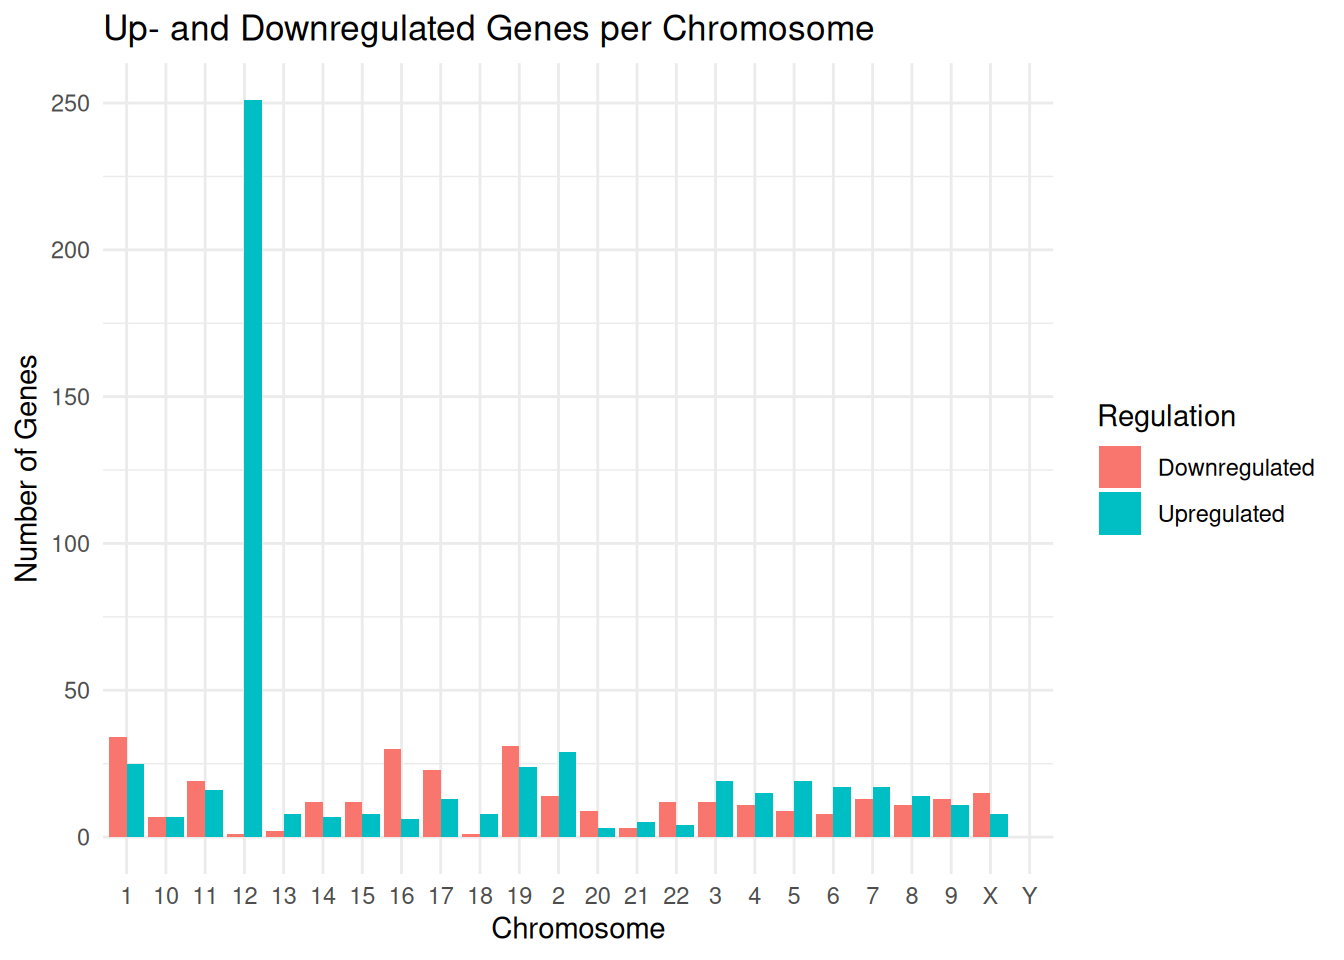
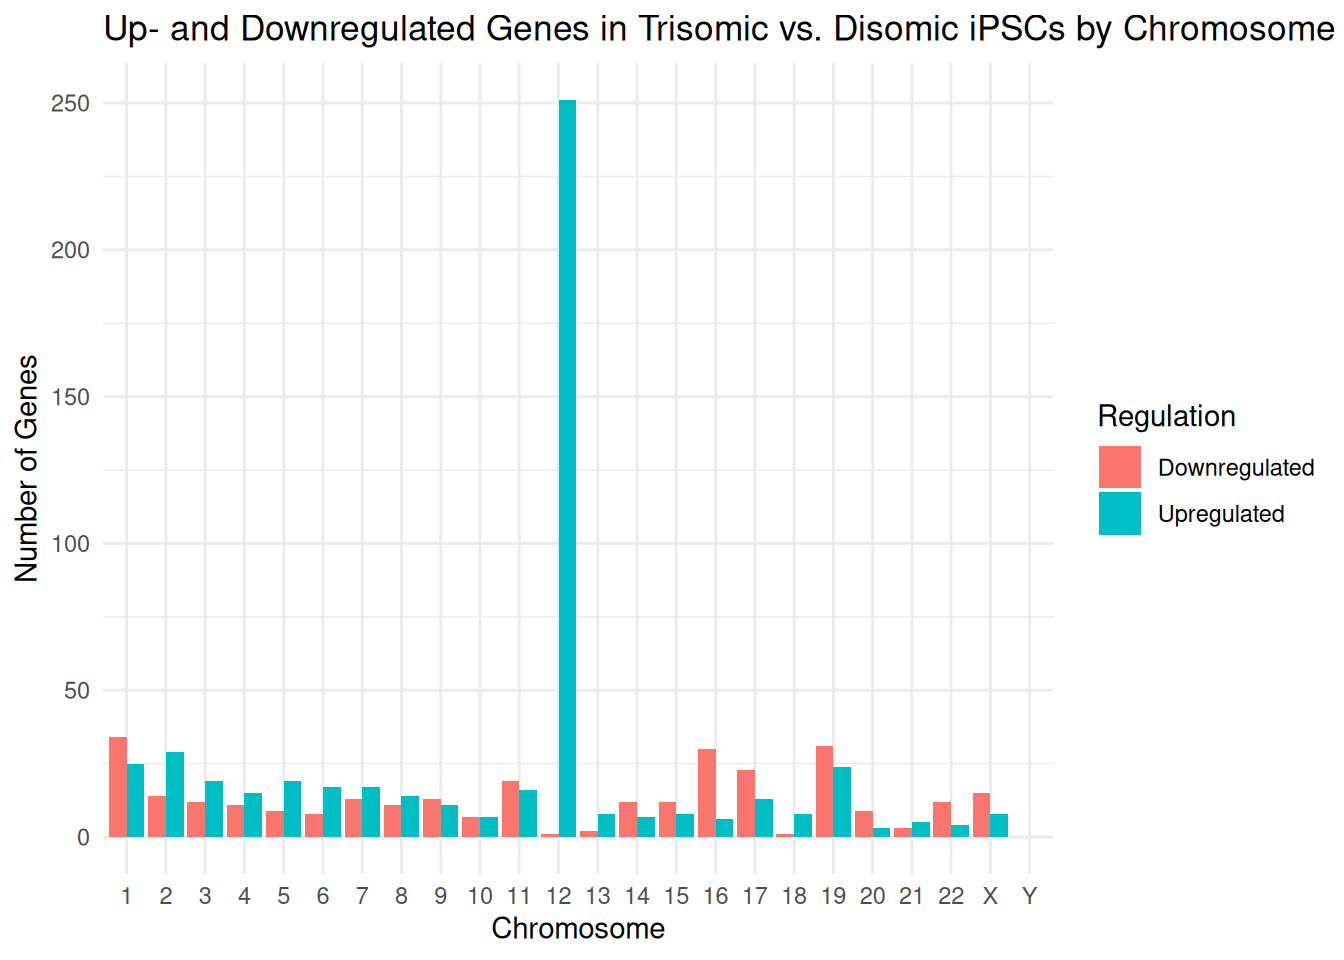
Built site for gh-pages

diff --git a/projects/project_title.html b/projects/project_title.html
@@ -225,7 +225,7 @@ pre > code.sourceCode > span > a:first-child::before { text-decoration: underlin
 </section>
 <section id="load-and-preview-the-rna-seq-dataset" class="level2">
 <h2 class="anchored" data-anchor-id="load-and-preview-the-rna-seq-dataset">Load and Preview the RNA-seq Dataset</h2>
-<p>The dataset <code>BulkRNAseq_with_Chr.csv</code> contains normalized expression values, fold changes, statistical test results, and chromosome annotations for over 12,000 genes. Below, we load the dataset and preview the first few rows to verify that it has been imported correctly.</p>
+<p>We load the CSV file using <code>read_csv()</code> and use <code>head()</code> and <code>glimpse()</code> to confirm successful import and examine the structure. The dataset <code>BulkRNAseq_with_Chr.csv</code> contains normalized expression values, fold changes, statistical test results, and chromosome annotations for over 12,000 genes. Below, we load the dataset and preview the first few rows to verify that it has been imported correctly.</p>
 <div class="cell">
 <div class="sourceCode cell-code" id="cb3"><pre class="sourceCode r code-with-copy"><code class="sourceCode r"><span id="cb3-1"><a href="#cb3-1" aria-hidden="true" tabindex="-1"></a><span class="co"># Read CSV and preview first few rows</span></span>
 <span id="cb3-2"><a href="#cb3-2" aria-hidden="true" tabindex="-1"></a><span class="fu">library</span>(readr)</span>
@@ -256,49 +256,71 @@ dbl (15): baseMean, baseMeanA, baseMeanB, foldChange, log2FoldChange, lfcSE,...
 #   P3_2 &lt;dbl&gt;, P3_3 &lt;dbl&gt;, P33_1 &lt;dbl&gt;, P33_2 &lt;dbl&gt;, P33_3 &lt;dbl&gt;, band &lt;chr&gt;,
 #   chromosome_name &lt;chr&gt;</code></pre>
 </div>
+<div class="sourceCode cell-code" id="cb7"><pre class="sourceCode r code-with-copy"><code class="sourceCode r"><span id="cb7-1"><a href="#cb7-1" aria-hidden="true" tabindex="-1"></a><span class="fu">glimpse</span>(rna)</span></code><button title="Copy to Clipboard" class="code-copy-button"><i class="bi"></i></button></pre></div>
+<div class="cell-output cell-output-stdout">
+<pre><code>Rows: 12,916
+Columns: 19
+$ name            &lt;chr&gt; "ENSG00000228624", "ENSG00000234787", "ENSG00000254339…
+$ gene_symbol     &lt;chr&gt; "HDAC2-AS2", "LINC00458", "ENSG00000254339", "CEBPZOS"…
+$ baseMean        &lt;dbl&gt; 1400.4867, 1930.8693, 3206.3738, 495.8898, 454.7371, 6…
+$ baseMeanA       &lt;dbl&gt; 371.2333, 530.4333, 651.3333, 890.6333, 149.7667, 254.…
+$ baseMeanB       &lt;dbl&gt; 2429.7000, 3331.2667, 5761.4333, 101.1667, 759.7000, 9…
+$ foldChange      &lt;dbl&gt; 6.5489, 6.2818, 8.8441, 0.1132, 5.0707, 3.8492, 4.2759…
+$ log2FoldChange  &lt;dbl&gt; 2.7112, 2.6512, 3.1447, -3.1432, 2.3422, 1.9446, 2.096…
+$ lfcSE           &lt;dbl&gt; 0.1069, 0.1077, 0.1474, 0.1580, 0.1405, 0.1220, 0.1464…
+$ stat            &lt;dbl&gt; 25.3538, 24.6142, 21.3295, -19.8895, 16.6748, 15.9350,…
+$ pvalue          &lt;dbl&gt; 8.15e-142, 8.89e-134, 6.05e-101, 5.02e-88, 2.00e-62, 3…
+$ pAdj            &lt;dbl&gt; 1.49e-137, 1.09e-129, 5.55e-97, 3.68e-84, 9.17e-59, 1.…
+$ P3_1            &lt;dbl&gt; 399.3, 587.6, 505.4, 843.3, 146.7, 259.6, 160.5, 146.7…
+$ P3_2            &lt;dbl&gt; 360.2, 495.3, 743.5, 898.4, 147.6, 266.0, 144.5, 112.0…
+$ P3_3            &lt;dbl&gt; 354.2, 508.4, 705.1, 930.2, 155.0, 239.2, 140.9, 107.5…
+$ P33_1           &lt;dbl&gt; 2418.2, 3290.6, 5890.2, 114.0, 777.1, 932.5, 652.7, 61…
+$ P33_2           &lt;dbl&gt; 2513.5, 3414.9, 5489.2, 81.5, 813.2, 1032.8, 677.0, 60…
+$ P33_3           &lt;dbl&gt; 2357.4, 3288.3, 5904.9, 108.0, 688.8, 974.1, 574.0, 57…
+$ band            &lt;chr&gt; "q21", "q14.3", "q23.3", "p22.2", "q24.1", "p13.33", N…
+$ chromosome_name &lt;chr&gt; "6", "13", "8", "2", "16", "12", NA, "11", "12", "12",…</code></pre>
+</div>
 </div>
 </section>
 <section id="summarize-dataset" class="level2">
 <h2 class="anchored" data-anchor-id="summarize-dataset">Summarize Dataset</h2>
-<p>In this section, we explore summary statistics and characteristics of the RNA-seq dataset.</p>
-<section id="a.-how-many-genes-are-upregulated-or-downregulated-in-trisomic-ch-12-ipscs" class="level3">
-<h3 class="anchored" data-anchor-id="a.-how-many-genes-are-upregulated-or-downregulated-in-trisomic-ch-12-ipscs">A. How many genes are upregulated or downregulated in trisomic ch-12 iPSCs?</h3>
-<p>We define upregulated genes as those with a positive <code>log2FoldChange</code> and downregulated as those with a negative <code>log2FoldChange</code>, comparing trisomic (P33_1, P33_2, P33_3) versus disomic (P3_1, P3_2, P3_3) iPSCs.</p>
+<section id="how-many-genes-are-upregulated-or-downregulated-in-trisomic-ipscs" class="level3">
+<h3 class="anchored" data-anchor-id="how-many-genes-are-upregulated-or-downregulated-in-trisomic-ipscs">How many genes are upregulated or downregulated in trisomic iPSCs?</h3>
+<p>We define significantly upregulated genes as those with log₂ fold change ≥ log₂(1.5) and FDR-adjusted p-value &lt; 0.05. Downregulated genes meet the same p-value threshold and log₂ fold change ≤ -log₂(1.5),comparing trisomic (P33_1, P33_2, P33_3) versus disomic (P3_1, P3_2, P3_3) iPSCs.</p>
 <div class="cell">
-<div class="sourceCode cell-code" id="cb7"><pre class="sourceCode r code-with-copy"><code class="sourceCode r"><span id="cb7-1"><a href="#cb7-1" aria-hidden="true" tabindex="-1"></a><span class="co"># Count how many genes are up- or down-regulated</span></span>
-<span id="cb7-2"><a href="#cb7-2" aria-hidden="true" tabindex="-1"></a></span>
-<span id="cb7-3"><a href="#cb7-3" aria-hidden="true" tabindex="-1"></a>log2fc_cutoff <span class="ot">&lt;-</span> <span class="fu">log2</span>(<span class="fl">1.5</span>)</span>
-<span id="cb7-4"><a href="#cb7-4" aria-hidden="true" tabindex="-1"></a>padj_cutoff <span class="ot">&lt;-</span> <span class="fl">0.05</span></span>
-<span id="cb7-5"><a href="#cb7-5" aria-hidden="true" tabindex="-1"></a></span>
-<span id="cb7-6"><a href="#cb7-6" aria-hidden="true" tabindex="-1"></a><span class="co"># Categorize genes</span></span>
-<span id="cb7-7"><a href="#cb7-7" aria-hidden="true" tabindex="-1"></a>rna <span class="ot">&lt;-</span> rna <span class="sc">%&gt;%</span></span>
-<span id="cb7-8"><a href="#cb7-8" aria-hidden="true" tabindex="-1"></a>  <span class="fu">mutate</span>(</span>
-<span id="cb7-9"><a href="#cb7-9" aria-hidden="true" tabindex="-1"></a>    <span class="at">Regulation =</span> <span class="fu">case_when</span>(</span>
-<span id="cb7-10"><a href="#cb7-10" aria-hidden="true" tabindex="-1"></a>      log2FoldChange <span class="sc">&gt;=</span> log2fc_cutoff <span class="sc">&amp;</span> pAdj <span class="sc">&lt;</span> padj_cutoff <span class="sc">~</span> <span class="st">"Upregulated"</span>,</span>
-<span id="cb7-11"><a href="#cb7-11" aria-hidden="true" tabindex="-1"></a>      log2FoldChange <span class="sc">&lt;=</span> <span class="sc">-</span>log2fc_cutoff <span class="sc">&amp;</span> pAdj <span class="sc">&lt;</span> padj_cutoff <span class="sc">~</span> <span class="st">"Downregulated"</span>,</span>
-<span id="cb7-12"><a href="#cb7-12" aria-hidden="true" tabindex="-1"></a>      <span class="cn">TRUE</span> <span class="sc">~</span> <span class="st">"Not Significant"</span></span>
-<span id="cb7-13"><a href="#cb7-13" aria-hidden="true" tabindex="-1"></a>    )</span>
-<span id="cb7-14"><a href="#cb7-14" aria-hidden="true" tabindex="-1"></a>  )</span>
-<span id="cb7-15"><a href="#cb7-15" aria-hidden="true" tabindex="-1"></a></span>
-<span id="cb7-16"><a href="#cb7-16" aria-hidden="true" tabindex="-1"></a><span class="co"># Summarize and include all chromosomes (excluding NA)</span></span>
-<span id="cb7-17"><a href="#cb7-17" aria-hidden="true" tabindex="-1"></a>reg_summary <span class="ot">&lt;-</span> rna <span class="sc">%&gt;%</span></span>
-<span id="cb7-18"><a href="#cb7-18" aria-hidden="true" tabindex="-1"></a>  <span class="fu">filter</span>(Regulation <span class="sc">!=</span> <span class="st">"Not Significant"</span>, <span class="sc">!</span><span class="fu">is.na</span>(chromosome_name)) <span class="sc">%&gt;%</span></span>
-<span id="cb7-19"><a href="#cb7-19" aria-hidden="true" tabindex="-1"></a>  <span class="fu">count</span>(chromosome_name, Regulation) <span class="sc">%&gt;%</span></span>
-<span id="cb7-20"><a href="#cb7-20" aria-hidden="true" tabindex="-1"></a>  <span class="fu">complete</span>(</span>
-<span id="cb7-21"><a href="#cb7-21" aria-hidden="true" tabindex="-1"></a>    <span class="at">chromosome_name =</span> <span class="fu">factor</span>(<span class="fu">c</span>(<span class="fu">as.character</span>(<span class="dv">1</span><span class="sc">:</span><span class="dv">22</span>), <span class="st">"X"</span>, <span class="st">"Y"</span>), <span class="at">levels =</span> <span class="fu">c</span>(<span class="fu">as.character</span>(<span class="dv">1</span><span class="sc">:</span><span class="dv">22</span>), <span class="st">"X"</span>, <span class="st">"Y"</span>)),</span>
-<span id="cb7-22"><a href="#cb7-22" aria-hidden="true" tabindex="-1"></a>    Regulation,</span>
-<span id="cb7-23"><a href="#cb7-23" aria-hidden="true" tabindex="-1"></a>    <span class="at">fill =</span> <span class="fu">list</span>(<span class="at">n =</span> <span class="dv">0</span>)</span>
-<span id="cb7-24"><a href="#cb7-24" aria-hidden="true" tabindex="-1"></a>  )</span>
-<span id="cb7-25"><a href="#cb7-25" aria-hidden="true" tabindex="-1"></a></span>
-<span id="cb7-26"><a href="#cb7-26" aria-hidden="true" tabindex="-1"></a><span class="co"># Plot</span></span>
-<span id="cb7-27"><a href="#cb7-27" aria-hidden="true" tabindex="-1"></a><span class="fu">ggplot</span>(reg_summary, <span class="fu">aes</span>(<span class="at">x =</span> chromosome_name, <span class="at">y =</span> n, <span class="at">fill =</span> Regulation)) <span class="sc">+</span></span>
-<span id="cb7-28"><a href="#cb7-28" aria-hidden="true" tabindex="-1"></a>  <span class="fu">geom_bar</span>(<span class="at">stat =</span> <span class="st">"identity"</span>, <span class="at">position =</span> <span class="st">"dodge"</span>) <span class="sc">+</span></span>
-<span id="cb7-29"><a href="#cb7-29" aria-hidden="true" tabindex="-1"></a>  <span class="fu">labs</span>(</span>
-<span id="cb7-30"><a href="#cb7-30" aria-hidden="true" tabindex="-1"></a>    <span class="at">title =</span> <span class="st">"Up- and Downregulated Genes per Chromosome"</span>,</span>
-<span id="cb7-31"><a href="#cb7-31" aria-hidden="true" tabindex="-1"></a>    <span class="at">x =</span> <span class="st">"Chromosome"</span>,</span>
-<span id="cb7-32"><a href="#cb7-32" aria-hidden="true" tabindex="-1"></a>    <span class="at">y =</span> <span class="st">"Number of Genes"</span></span>
-<span id="cb7-33"><a href="#cb7-33" aria-hidden="true" tabindex="-1"></a>  ) <span class="sc">+</span></span>
-<span id="cb7-34"><a href="#cb7-34" aria-hidden="true" tabindex="-1"></a>  <span class="fu">theme_minimal</span>()</span></code><button title="Copy to Clipboard" class="code-copy-button"><i class="bi"></i></button></pre></div>
+<div class="sourceCode cell-code" id="cb9"><pre class="sourceCode r code-with-copy"><code class="sourceCode r"><span id="cb9-1"><a href="#cb9-1" aria-hidden="true" tabindex="-1"></a><span class="co"># Step 1: Define thresholds</span></span>
+<span id="cb9-2"><a href="#cb9-2" aria-hidden="true" tabindex="-1"></a>log2fc_cutoff <span class="ot">&lt;-</span> <span class="fu">log2</span>(<span class="fl">1.5</span>)</span>
+<span id="cb9-3"><a href="#cb9-3" aria-hidden="true" tabindex="-1"></a>padj_cutoff <span class="ot">&lt;-</span> <span class="fl">0.05</span></span>
+<span id="cb9-4"><a href="#cb9-4" aria-hidden="true" tabindex="-1"></a></span>
+<span id="cb9-5"><a href="#cb9-5" aria-hidden="true" tabindex="-1"></a><span class="co"># Step 2: Categorize genes</span></span>
+<span id="cb9-6"><a href="#cb9-6" aria-hidden="true" tabindex="-1"></a>rna <span class="ot">&lt;-</span> rna <span class="sc">%&gt;%</span></span>
+<span id="cb9-7"><a href="#cb9-7" aria-hidden="true" tabindex="-1"></a>  <span class="fu">mutate</span>(</span>
+<span id="cb9-8"><a href="#cb9-8" aria-hidden="true" tabindex="-1"></a>    <span class="at">Regulation =</span> <span class="fu">case_when</span>(</span>
+<span id="cb9-9"><a href="#cb9-9" aria-hidden="true" tabindex="-1"></a>      log2FoldChange <span class="sc">&gt;=</span> log2fc_cutoff <span class="sc">&amp;</span> pAdj <span class="sc">&lt;</span> padj_cutoff <span class="sc">~</span> <span class="st">"Upregulated"</span>,</span>
+<span id="cb9-10"><a href="#cb9-10" aria-hidden="true" tabindex="-1"></a>      log2FoldChange <span class="sc">&lt;=</span> <span class="sc">-</span>log2fc_cutoff <span class="sc">&amp;</span> pAdj <span class="sc">&lt;</span> padj_cutoff <span class="sc">~</span> <span class="st">"Downregulated"</span>,</span>
+<span id="cb9-11"><a href="#cb9-11" aria-hidden="true" tabindex="-1"></a>      <span class="cn">TRUE</span> <span class="sc">~</span> <span class="st">"Not Significant"</span></span>
+<span id="cb9-12"><a href="#cb9-12" aria-hidden="true" tabindex="-1"></a>    )</span>
+<span id="cb9-13"><a href="#cb9-13" aria-hidden="true" tabindex="-1"></a>  )</span>
+<span id="cb9-14"><a href="#cb9-14" aria-hidden="true" tabindex="-1"></a></span>
+<span id="cb9-15"><a href="#cb9-15" aria-hidden="true" tabindex="-1"></a><span class="co"># Step 3: Filter out NA chromosome names and define correct chromosome order</span></span>
+<span id="cb9-16"><a href="#cb9-16" aria-hidden="true" tabindex="-1"></a>valid_chromosomes <span class="ot">&lt;-</span> <span class="fu">c</span>(<span class="fu">as.character</span>(<span class="dv">1</span><span class="sc">:</span><span class="dv">22</span>), <span class="st">"X"</span>, <span class="st">"Y"</span>)</span>
+<span id="cb9-17"><a href="#cb9-17" aria-hidden="true" tabindex="-1"></a></span>
+<span id="cb9-18"><a href="#cb9-18" aria-hidden="true" tabindex="-1"></a><span class="co"># Step 4: Summarize data per chromosome and regulation category</span></span>
+<span id="cb9-19"><a href="#cb9-19" aria-hidden="true" tabindex="-1"></a>reg_summary <span class="ot">&lt;-</span> rna <span class="sc">%&gt;%</span></span>
+<span id="cb9-20"><a href="#cb9-20" aria-hidden="true" tabindex="-1"></a>  <span class="fu">filter</span>(Regulation <span class="sc">!=</span> <span class="st">"Not Significant"</span>, chromosome_name <span class="sc">%in%</span> valid_chromosomes) <span class="sc">%&gt;%</span></span>
+<span id="cb9-21"><a href="#cb9-21" aria-hidden="true" tabindex="-1"></a>  <span class="fu">mutate</span>(<span class="at">chromosome_name =</span> <span class="fu">factor</span>(chromosome_name, <span class="at">levels =</span> valid_chromosomes)) <span class="sc">%&gt;%</span></span>
+<span id="cb9-22"><a href="#cb9-22" aria-hidden="true" tabindex="-1"></a>  <span class="fu">count</span>(chromosome_name, Regulation) <span class="sc">%&gt;%</span></span>
+<span id="cb9-23"><a href="#cb9-23" aria-hidden="true" tabindex="-1"></a>  <span class="fu">complete</span>(chromosome_name, Regulation, <span class="at">fill =</span> <span class="fu">list</span>(<span class="at">n =</span> <span class="dv">0</span>))</span>
+<span id="cb9-24"><a href="#cb9-24" aria-hidden="true" tabindex="-1"></a></span>
+<span id="cb9-25"><a href="#cb9-25" aria-hidden="true" tabindex="-1"></a><span class="co"># Step 5: Plot</span></span>
+<span id="cb9-26"><a href="#cb9-26" aria-hidden="true" tabindex="-1"></a><span class="fu">ggplot</span>(reg_summary, <span class="fu">aes</span>(<span class="at">x =</span> chromosome_name, <span class="at">y =</span> n, <span class="at">fill =</span> Regulation)) <span class="sc">+</span></span>
+<span id="cb9-27"><a href="#cb9-27" aria-hidden="true" tabindex="-1"></a>  <span class="fu">geom_bar</span>(<span class="at">stat =</span> <span class="st">"identity"</span>, <span class="at">position =</span> <span class="st">"dodge"</span>) <span class="sc">+</span></span>
+<span id="cb9-28"><a href="#cb9-28" aria-hidden="true" tabindex="-1"></a>  <span class="fu">labs</span>(</span>
+<span id="cb9-29"><a href="#cb9-29" aria-hidden="true" tabindex="-1"></a>    <span class="at">title =</span> <span class="st">"Up- and Downregulated Genes in Trisomic vs. Disomic iPSCs by Chromosome"</span>,</span>
+<span id="cb9-30"><a href="#cb9-30" aria-hidden="true" tabindex="-1"></a>    <span class="at">x =</span> <span class="st">"Chromosome"</span>,</span>
+<span id="cb9-31"><a href="#cb9-31" aria-hidden="true" tabindex="-1"></a>    <span class="at">y =</span> <span class="st">"Number of Genes"</span></span>
+<span id="cb9-32"><a href="#cb9-32" aria-hidden="true" tabindex="-1"></a>  ) <span class="sc">+</span></span>
+<span id="cb9-33"><a href="#cb9-33" aria-hidden="true" tabindex="-1"></a>  <span class="fu">theme_minimal</span>()</span></code><button title="Copy to Clipboard" class="code-copy-button"><i class="bi"></i></button></pre></div>
 <div class="cell-output-display">
 <div>
 <figure class="figure">

diff --git a/projects.html b/projects.html
@@ -216,7 +216,7 @@ Author
 </thead>
 <tbody class="list">
 
-<tr data-index="0" data-listing-date-sort="1753660800000" data-listing-file-modified-sort="1753596857684" data-listing-date-modified-sort="NaN" data-listing-reading-time-sort="3" data-listing-word-count-sort="463" data-listing-title-sort="Gene Dosage Effects of Chromosome 12 Trisomy in Human Induced Pluripotent Stem Cells (iPSCs)" data-listing-filename-sort="project_title.qmd">
+<tr data-index="0" data-listing-date-sort="1753660800000" data-listing-file-modified-sort="1753597143748" data-listing-date-modified-sort="NaN" data-listing-reading-time-sort="3" data-listing-word-count-sort="492" data-listing-title-sort="Gene Dosage Effects of Chromosome 12 Trisomy in Human Induced Pluripotent Stem Cells (iPSCs)" data-listing-filename-sort="project_title.qmd">
 <td>
 <a href="./projects/project_title.html" class="title listing-title">Gene Dosage Effects of Chromosome 12 Trisomy in Human Induced Pluripotent Stem Cells (iPSCs)</a>
 </td>
